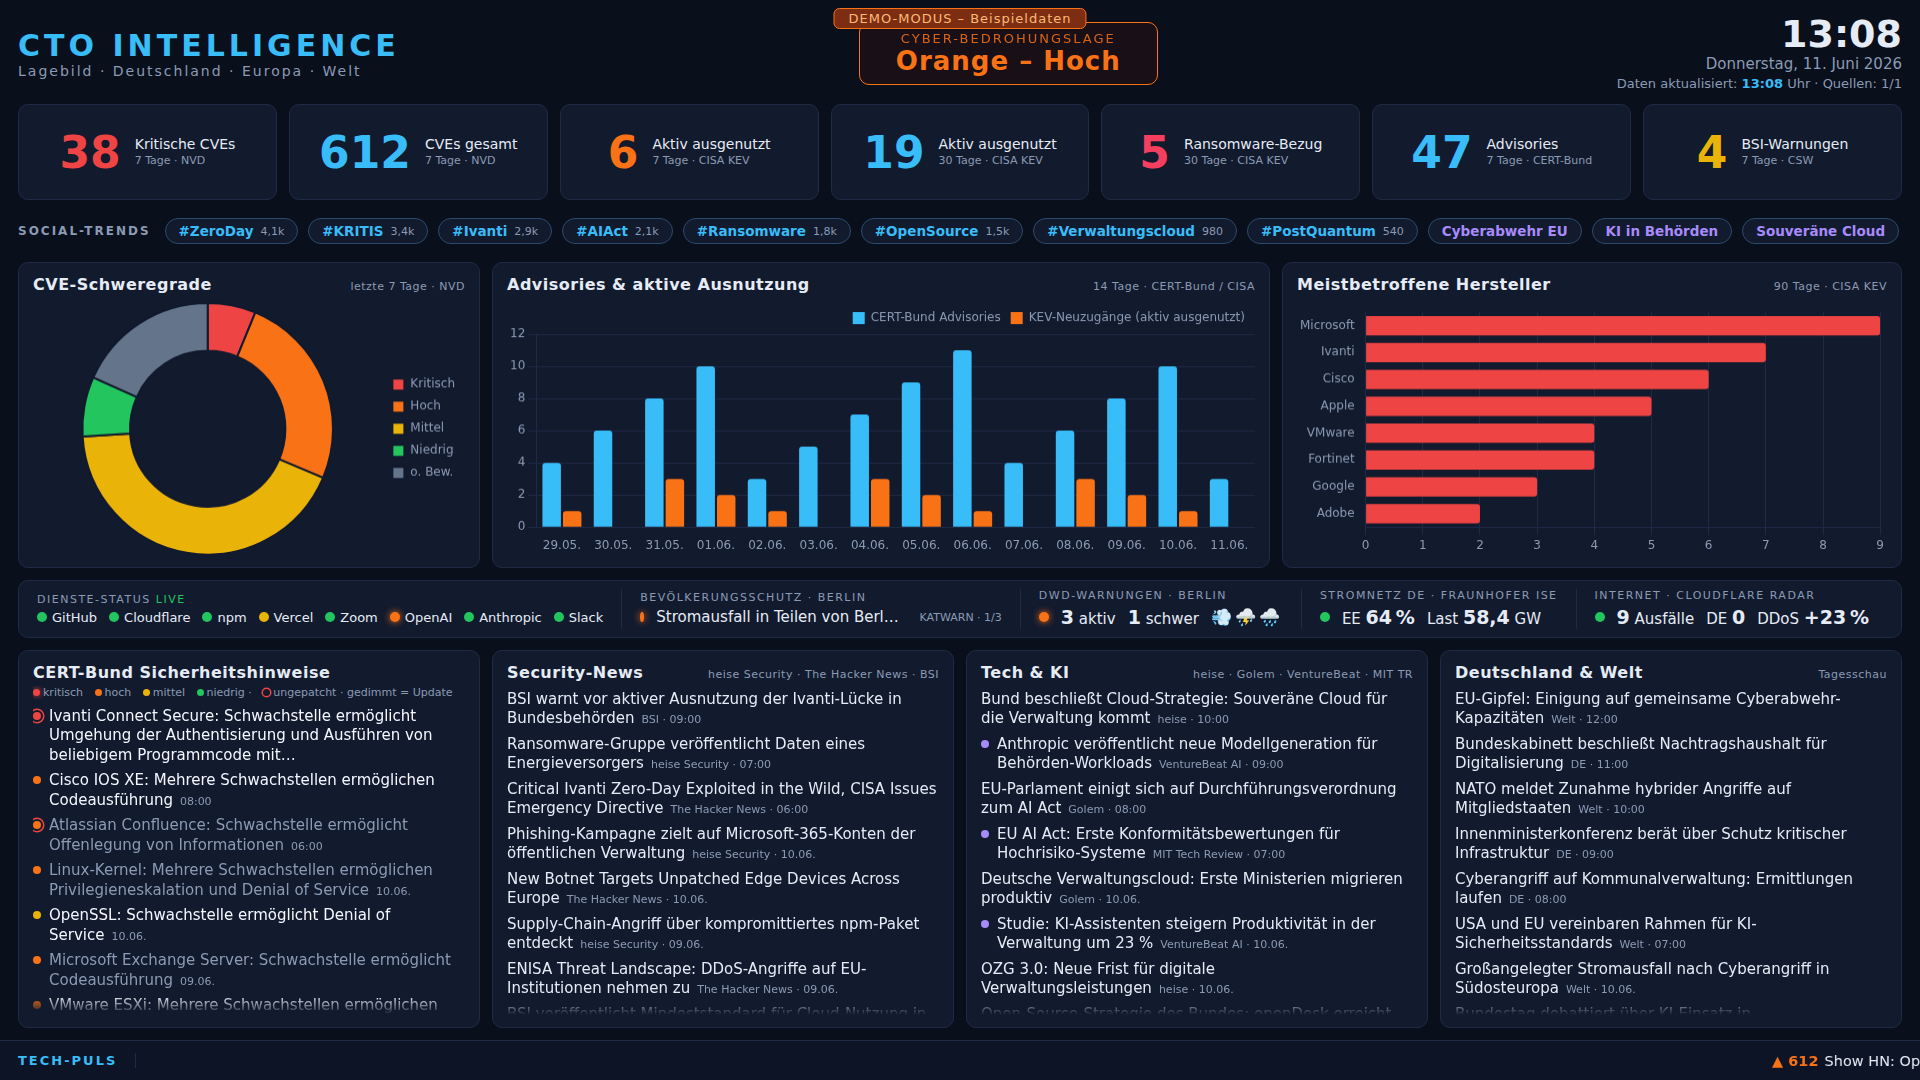
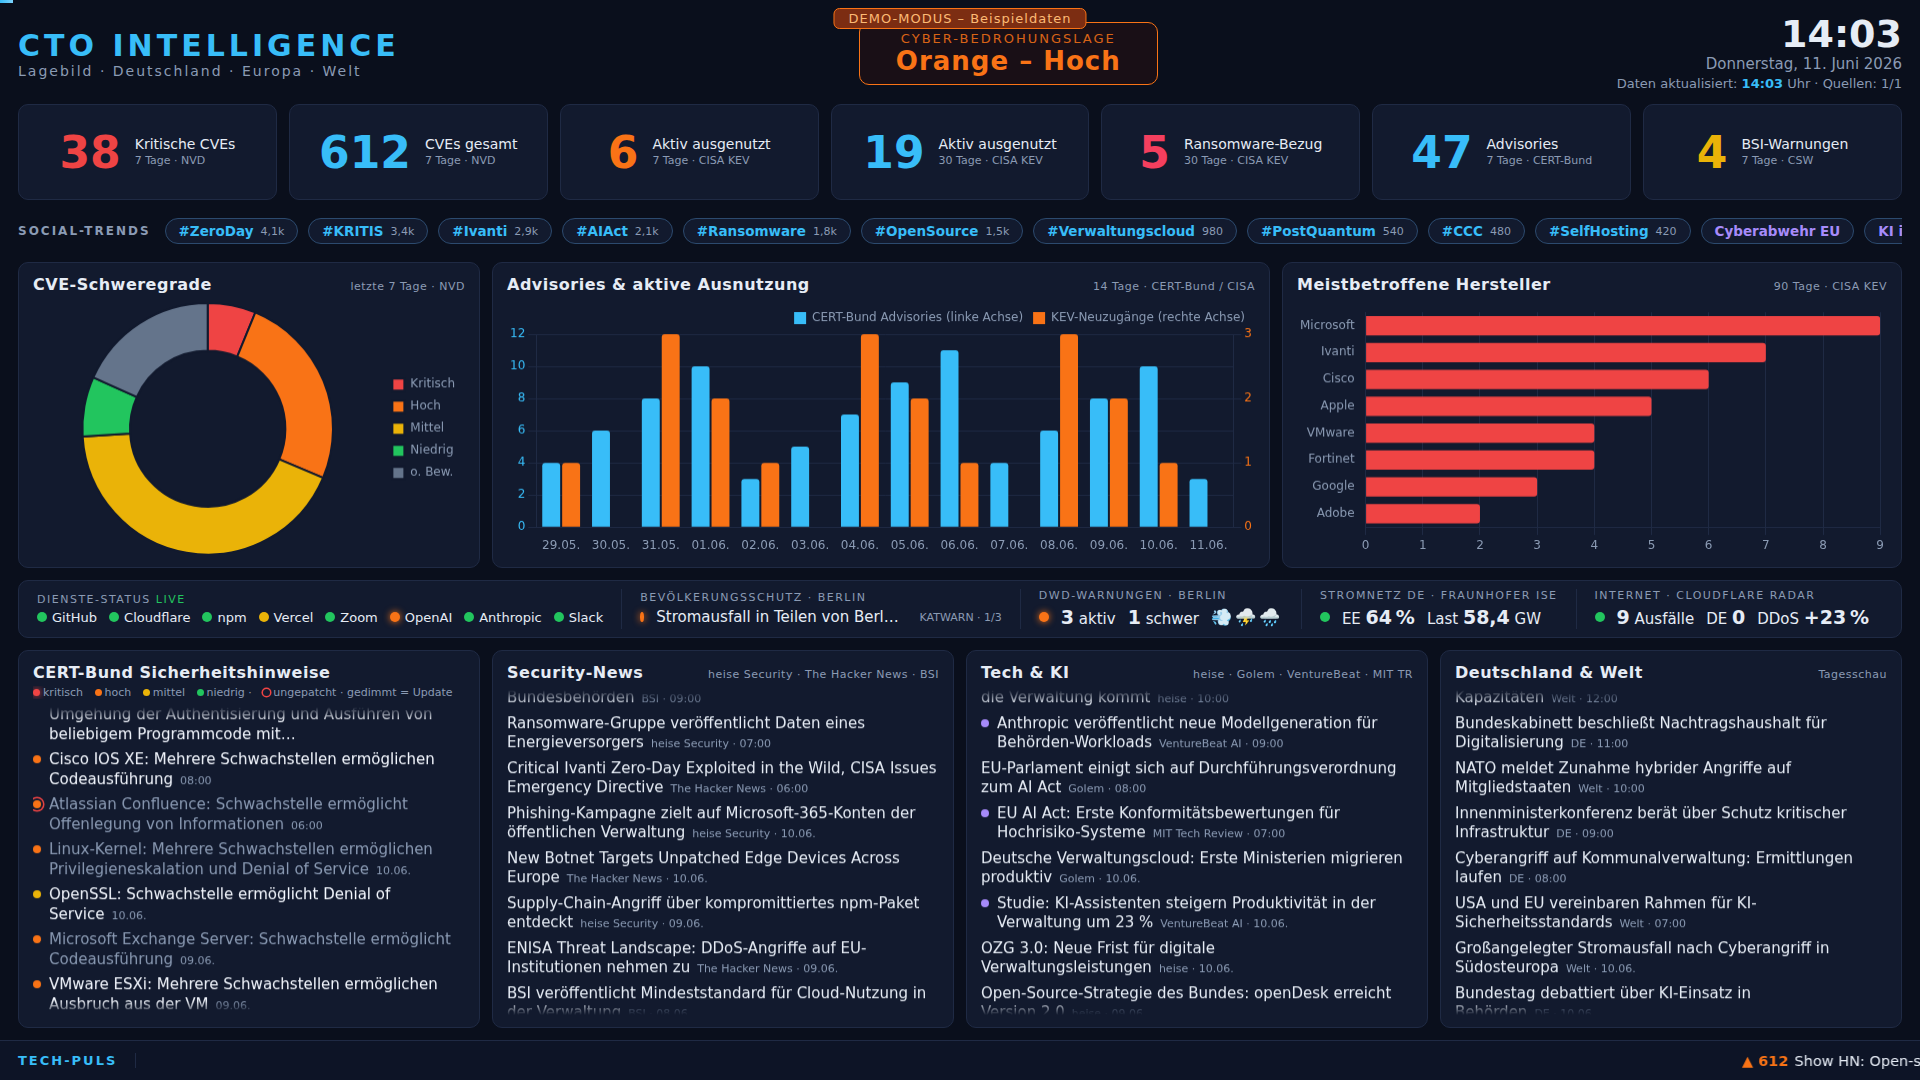
Auto-Scroll-Feeds, Refresh-Progressbar, strikte CTO-Trends, Doppel-Y-Achse
- Feed-Panels scrollen langsam in Endlosschleife (12 px/s), sobald der
  Inhalt überläuft; Listenumfang dafür erhöht (CERT-Bund 14, News 12, ...)
- Dünner Fortschrittsbalken am oberen Rand zeigt die Zeit bis zum
  nächsten 5-Minuten-Refresh
- Social-Trends: strikter Filter ohne Auffüllen mit globalen Pop-Trends;
  zusätzliche Tech-Instanzen chaos.social und fosstodon.org
- Zeitreihen-Chart mit getrennten Y-Achsen für CERT-Bund (links) und
  KEV-Neuzugänge (rechts), Achsenfarben passend zu den Datenreihen

https://claude.ai/code/session_01RQCW42bAu5rzETtTf6RSuo

diff --git a/public/app.js b/public/app.js
@@ -128,13 +128,27 @@ function fmtCount(n) {
   return n >= 1000 ? (n / 1000).toLocaleString('de-DE', { maximumFractionDigits: 1 }) + 'k' : String(n);
 }
 
+/*
+ * Feed-Panel rendern; läuft der Inhalt über, scrollt er langsam in einer
+ * Endlosschleife (Inhalt wird dafür dupliziert).
+ */
+const SCROLL_SPEED = 12; // Pixel pro Sekunde
+
 function renderList(id, items, render) {
-  const ul = el(id);
+  const container = el(id);
+  container.classList.remove('scrolling');
   if (!items || items.length === 0) {
-    ul.innerHTML = '<li class="empty-note">Quelle derzeit nicht erreichbar</li>';
+    container.innerHTML = '<div class="nitem empty-note">Quelle derzeit nicht erreichbar</div>';
     return;
   }
-  ul.innerHTML = items.map(render).join('');
+  container.innerHTML = `<div class="ntrack">${items.map(render).join('')}</div>`;
+  requestAnimationFrame(() => {
+    const track = container.querySelector('.ntrack');
+    if (!track || track.scrollHeight <= container.clientHeight + 4) return;
+    track.innerHTML += track.innerHTML;
+    track.style.setProperty('--scroll-duration', `${track.scrollHeight / 2 / SCROLL_SPEED}s`);
+    container.classList.add('scrolling');
+  });
 }
 
 function esc(s) {
@@ -187,16 +201,18 @@ function renderTimelineChart(timeline) {
       labels,
       datasets: [
         {
-          label: 'CERT-Bund Advisories',
+          label: 'CERT-Bund Advisories (linke Achse)',
           data: (timeline || []).map((b) => b.certBund),
           backgroundColor: '#38bdf8',
           borderRadius: 3,
+          yAxisID: 'y',
         },
         {
-          label: 'KEV-Neuzugänge (aktiv ausgenutzt)',
+          label: 'KEV-Neuzugänge (rechte Achse)',
           data: (timeline || []).map((b) => b.kev),
           backgroundColor: '#f97316',
           borderRadius: 3,
+          yAxisID: 'yKev',
         },
       ],
     },
@@ -204,7 +220,19 @@ function renderTimelineChart(timeline) {
       maintainAspectRatio: false,
       scales: {
         x: { grid: { display: false }, stacked: false },
-        y: { beginAtZero: true, ticks: { precision: 0 } },
+        // Getrennte Y-Achsen: Advisories (zweistellig/Tag) und KEV (einstellig)
+        // skalieren unabhängig, damit beide Reihen gut ablesbar sind.
+        y: {
+          beginAtZero: true,
+          position: 'left',
+          ticks: { precision: 0, color: '#38bdf8' },
+        },
+        yKev: {
+          beginAtZero: true,
+          position: 'right',
+          grid: { drawOnChartArea: false },
+          ticks: { precision: 0, color: '#f97316' },
+        },
       },
       plugins: { legend: { position: 'top', align: 'end' } },
     },
@@ -275,11 +303,11 @@ function render(data) {
   renderList('list-certbund', data.lists.certBund, (it) => {
     const { status, severity, unpatched, text } = parseCertTitle(it.title);
     const dot = `<span class="dot ${severity ? `dot-${severity}` : ''}${unpatched ? ' unpatched' : ''}" title="${[severity, unpatched ? 'ungepatcht' : ''].filter(Boolean).join(', ')}"></span>`;
-    return `<li class="${status === 'update' ? 'item-update' : 'item-new'}">${dot}<div class="item-body"><span class="item-title">${esc(text)}</span>${meta([fmtTime(it.date)])}</div></li>`;
+    return `<div class="nitem ${status === 'update' ? 'item-update' : 'item-new'}">${dot}<div class="item-body"><span class="item-title">${esc(text)}</span>${meta([fmtTime(it.date)])}</div></div>`;
   });
 
   renderList('list-secnews', data.lists.securityNews, (it) =>
-    `<li><div class="item-body"><span class="item-title">${esc(it.title)}</span>${meta([esc(it.source), fmtTime(it.date)])}</div></li>`
+    `<div class="nitem"><div class="item-body"><span class="item-title">${esc(it.title)}</span>${meta([esc(it.source), fmtTime(it.date)])}</div></div>`
   );
 
   const byDate = (a, b) => new Date(b.date || 0) - new Date(a.date || 0);
@@ -288,7 +316,7 @@ function render(data) {
     ...(data.lists.techNews || []).slice(0, 6),
   ].sort(byDate);
   renderList('list-tech', tech, (it) =>
-    `<li>${it.ki ? '<span class="dot dot-ki" title="KI"></span>' : ''}<div class="item-body"><span class="item-title">${esc(it.title)}</span>${meta([esc(it.source), fmtTime(it.date)])}</div></li>`
+    `<div class="nitem">${it.ki ? '<span class="dot dot-ki" title="KI"></span>' : ''}<div class="item-body"><span class="item-title">${esc(it.title)}</span>${meta([esc(it.source), fmtTime(it.date)])}</div></div>`
   );
 
   const politics = [
@@ -296,7 +324,7 @@ function render(data) {
     ...(data.lists.world || []).slice(0, 5).map((it) => ({ ...it, region: 'Welt' })),
   ].sort(byDate);
   renderList('list-politics', politics, (it) =>
-    `<li><div class="item-body"><span class="item-title">${esc(it.title)}</span>${meta([it.region, fmtTime(it.date)])}</div></li>`
+    `<div class="nitem"><div class="item-body"><span class="item-title">${esc(it.title)}</span>${meta([it.region, fmtTime(it.date)])}</div></div>`
   );
 
   const SVC_DOTS = { none: 'svc-ok', minor: 'svc-minor', major: 'svc-major', critical: 'svc-critical' };
@@ -388,7 +416,16 @@ function render(data) {
   health.className = ok < data.sources.length ? 'stale' : '';
 }
 
+/* Dünner Fortschrittsbalken am oberen Rand bis zum nächsten Refresh */
+function restartProgress() {
+  const bar = el('refresh-progress');
+  bar.style.animation = 'none';
+  void bar.offsetWidth; // Animation zurücksetzen
+  bar.style.animation = `refresh-progress ${REFRESH_MS}ms linear forwards`;
+}
+
 async function refresh() {
+  restartProgress();
   try {
     const res = await fetch('/api/dashboard', { cache: 'no-store' });
     if (!res.ok) throw new Error(`HTTP ${res.status}`);

diff --git a/src/aggregator.js b/src/aggregator.js
@@ -120,6 +120,18 @@ const SOURCES = [
     fetch: () => fetchMastodonTrends('infosec.exchange', 10),
   },
   {
+    id: 'chaosTrends',
+    name: 'chaos.social Trending Tags',
+    ttl: 15 * MIN,
+    fetch: () => fetchMastodonTrends('chaos.social', 10),
+  },
+  {
+    id: 'fossTrends',
+    name: 'fosstodon.org Trending Tags',
+    ttl: 15 * MIN,
+    fetch: () => fetchMastodonTrends('fosstodon.org', 10),
+  },
+  {
     id: 'blueskyTrends',
     name: 'Bluesky Trending Topics',
     ttl: 15 * MIN,
@@ -271,23 +283,21 @@ function isCtoTopic(tag) {
 
 /**
  * Quellen zusammenführen, deduplizieren und strikt auf CTO-Themen filtern.
- * Fachfremde Trends füllen nur auf, wenn es weniger als MIN_CHIPS
- * relevante Treffer gibt, und bleiben gedimmt (cto: false).
+ * Globale Pop-Trends werden verworfen – die fachliche Breite kommt aus
+ * den Tech-Instanzen (infosec.exchange, chaos.social, fosstodon.org).
  */
 function mergeTrends(trendLists, limit = 14) {
-  const MIN_CHIPS = 8;
   const byTag = new Map();
   for (const t of trendLists.flat()) {
     const key = t.tag.toLowerCase();
     const existing = byTag.get(key);
     if (!existing || (t.count || 0) > (existing.count || 0)) byTag.set(key, t);
   }
-  const all = [...byTag.values()];
-  const byCount = (a, b) => (b.count || 0) - (a.count || 0);
-  const relevant = all.filter((t) => isCtoTopic(t.tag)).sort(byCount);
-  const rest = all.filter((t) => !isCtoTopic(t.tag)).sort(byCount);
-  const fill = relevant.length < MIN_CHIPS ? rest.slice(0, MIN_CHIPS - relevant.length) : [];
-  return [...relevant.slice(0, limit), ...fill].map((t) => ({ ...t, cto: isCtoTopic(t.tag) }));
+  return [...byTag.values()]
+    .filter((t) => isCtoTopic(t.tag))
+    .sort((a, b) => (b.count || 0) - (a.count || 0))
+    .slice(0, limit)
+    .map((t) => ({ ...t, cto: true }));
 }
 
 function summarizeDwd(warnings) {
@@ -344,10 +354,10 @@ async function buildDashboard() {
       kevTopVendors: topVendors(kev),
     },
     lists: {
-      certBund: certBund.slice(0, 9),
+      certBund: certBund.slice(0, 14),
       euAdvisories: get('certEu').slice(0, 4),
-      securityNews: mergeNews([get('heiseSecurity'), get('hackerNewsSec'), get('bsiCsw')], 9),
-      techNews: mergeNews([get('heise'), get('golem')], 8),
+      securityNews: mergeNews([get('heiseSecurity'), get('hackerNewsSec'), get('bsiCsw')], 12),
+      techNews: mergeNews([get('heise'), get('golem')], 10),
       aiNews: mergeNews([get('venturebeatAi'), get('mitTechReview')], 6),
       hackerNews: get('hn'),
       germany: get('tagesschauInland'),
@@ -366,6 +376,8 @@ async function buildDashboard() {
         : null,
       socialTrends: mergeTrends([
         get('infosecTrends'),
+        get('chaosTrends'),
+        get('fossTrends'),
         get('mastodonTrends'),
         get('blueskyTrends'),
       ]),

diff --git a/public/style.css b/public/style.css
@@ -35,6 +35,21 @@ body {
 
 .hidden { display: none !important; }
 
+/* Fortschrittsbalken bis zum nächsten Daten-Refresh */
+#refresh-progress {
+  position: fixed;
+  top: 0;
+  left: 0;
+  height: 3px;
+  width: 0;
+  background: linear-gradient(90deg, var(--accent), #7dd3fc);
+  z-index: 60;
+}
+@keyframes refresh-progress {
+  from { width: 0; }
+  to { width: 100%; }
+}
+
 .demo-banner {
   position: fixed;
   top: 8px;
@@ -185,21 +200,32 @@ body {
 
 /* ── News-Listen ─────────────────────────────────────────── */
 .newslist {
-  list-style: none;
   flex: 1 1 auto;
   min-height: 0;
   overflow: hidden;
+  /* Überzählige Einträge laufen sanft aus statt hart abzuschneiden */
+  mask-image: linear-gradient(#000 calc(100% - 20px), transparent);
+}
+
+.ntrack {
   display: flex;
   flex-direction: column;
   gap: 6px;
 }
 
-.newslist {
-  /* Überzählige Einträge laufen sanft aus statt hart abzuschneiden */
-  mask-image: linear-gradient(#000 calc(100% - 20px), transparent);
+/* Läuft der Inhalt über, scrollt er langsam in einer Endlosschleife */
+.newslist.scrolling {
+  mask-image: linear-gradient(transparent, #000 14px, #000 calc(100% - 14px), transparent);
+}
+.newslist.scrolling .ntrack {
+  animation: feed-scroll var(--scroll-duration, 60s) linear infinite;
+}
+@keyframes feed-scroll {
+  from { transform: translateY(0); }
+  to { transform: translateY(-50%); }
 }
 
-.newslist li {
+.newslist .nitem {
   display: flex;
   align-items: flex-start;
   gap: 8px;

diff --git a/public/index.html b/public/index.html
@@ -7,6 +7,7 @@
   <link rel="stylesheet" href="style.css" />
 </head>
 <body>
+  <div id="refresh-progress" title="Zeit bis zur nächsten Aktualisierung"></div>
   <div id="demo-banner" class="demo-banner hidden">DEMO-MODUS – Beispieldaten</div>
 
   <header class="topbar">
@@ -82,22 +83,22 @@
     <section class="panel area-certbund">
       <h2>CERT-Bund Sicherheitshinweise</h2>
       <div class="sev-legend"><i class="dot dot-kritisch"></i>kritisch <i class="dot dot-hoch"></i>hoch <i class="dot dot-mittel"></i>mittel <i class="dot dot-niedrig"></i>niedrig · <i class="dot dot-ring"></i>ungepatcht · gedimmt&nbsp;=&nbsp;Update</div>
-      <ul id="list-certbund" class="newslist"></ul>
+      <div id="list-certbund" class="newslist"></div>
     </section>
 
     <section class="panel area-secnews">
       <h2>Security-News <span class="panel-sub">heise Security · The Hacker News · BSI</span></h2>
-      <ul id="list-secnews" class="newslist"></ul>
+      <div id="list-secnews" class="newslist"></div>
     </section>
 
     <section class="panel area-tech">
       <h2>Tech &amp; KI <span class="panel-sub">heise · Golem · VentureBeat · MIT TR</span></h2>
-      <ul id="list-tech" class="newslist"></ul>
+      <div id="list-tech" class="newslist"></div>
     </section>
 
     <section class="panel area-politics">
       <h2>Deutschland &amp; Welt <span class="panel-sub">Tagesschau</span></h2>
-      <ul id="list-politics" class="newslist"></ul>
+      <div id="list-politics" class="newslist"></div>
     </section>
   </main>
 

diff --git a/src/demo-data.js b/src/demo-data.js
@@ -188,10 +188,11 @@ function buildDemoDashboard() {
         { tag: 'OpenSource', count: 1450, source: 'mastodon.social', cto: true },
         { tag: 'Verwaltungscloud', count: 980, source: 'mastodon.social', cto: true },
         { tag: 'PostQuantum', count: 540, source: 'infosec.exchange', cto: true },
+        { tag: 'CCC', count: 480, source: 'chaos.social', cto: true },
+        { tag: 'SelfHosting', count: 420, source: 'fosstodon.org', cto: true },
         { tag: 'Cyberabwehr EU', count: null, source: 'Bluesky', cto: true },
         { tag: 'KI in Behörden', count: null, source: 'Bluesky', cto: true },
         { tag: 'Souveräne Cloud', count: null, source: 'Bluesky', cto: true },
-        { tag: 'Eurovision', count: 5200, source: 'mastodon.social', cto: false },
       ],
     },
     sources: [

diff --git a/README.md b/README.md
@@ -39,13 +39,14 @@ Quellen (keine API-Schlüssel erforderlich):
 
 ### 4. Social-Media-Trends
 
-- **Mastodon Trending Tags** (`mastodon.social` für Breite,
-  `infosec.exchange` für Security-Fokus): öffentliche API ohne Key,
-  inkl. Nutzungszahlen der letzten 48 h
+- **Mastodon Trending Tags** von vier Instanzen (öffentliche API ohne Key,
+  inkl. Nutzungszahlen der letzten 48 h): `infosec.exchange` (Security),
+  `chaos.social` (deutsche Tech-Community), `fosstodon.org` (Open Source),
+  `mastodon.social` (Breite)
 - **Bluesky Trending Topics**: öffentliche API ohne Key
-- Ein **CTO-Relevanzfilter** (`CTO_TOPIC_PATTERNS` in `src/aggregator.js`)
-  sortiert Tech-/Security-/KI-/Digitalpolitik-Themen nach vorn; fachfremde
-  Trends füllen nur auf und werden gedimmt dargestellt.
+- Ein **strikter CTO-Relevanzfilter** (`CTO_TOPIC_PATTERNS` in
+  `src/aggregator.js`) lässt nur Tech-/Security-/KI-/Digitalpolitik-Themen
+  durch; globale Pop-Trends werden verworfen.
 - **X (Twitter) und Instagram bieten keine frei zugängliche Trends-API**:
   X-Trends gibt es nur über die kostenpflichtige API (Pro-Tier), Instagram
   hat gar keinen Trends-Endpunkt. Bei vorhandenem X-API-Zugang lässt sich
@@ -121,6 +122,8 @@ Entscheidungen:
   Schwachstellen (7/30 Tage), Ransomware-Bezug, CERT-Bund-Advisories, BSI-Warnungen
 - **Donut**: CVE-Schweregradverteilung (NVD, 7 Tage)
 - **Balken-Zeitreihe**: CERT-Bund-Advisories vs. KEV-Neuzugänge (14 Tage)
+  mit getrennten Y-Achsen (links Advisories, rechts KEV), da sich die
+  Größenordnungen stark unterscheiden
 - **Hersteller-Ranking**: meistbetroffene Vendoren im KEV-Katalog (90 Tage)
 - **4 Listen-Panels**: CERT-Bund (mit Risikoklasse-Badges), Security-News,
   Tech & KI, Deutschland & Welt
